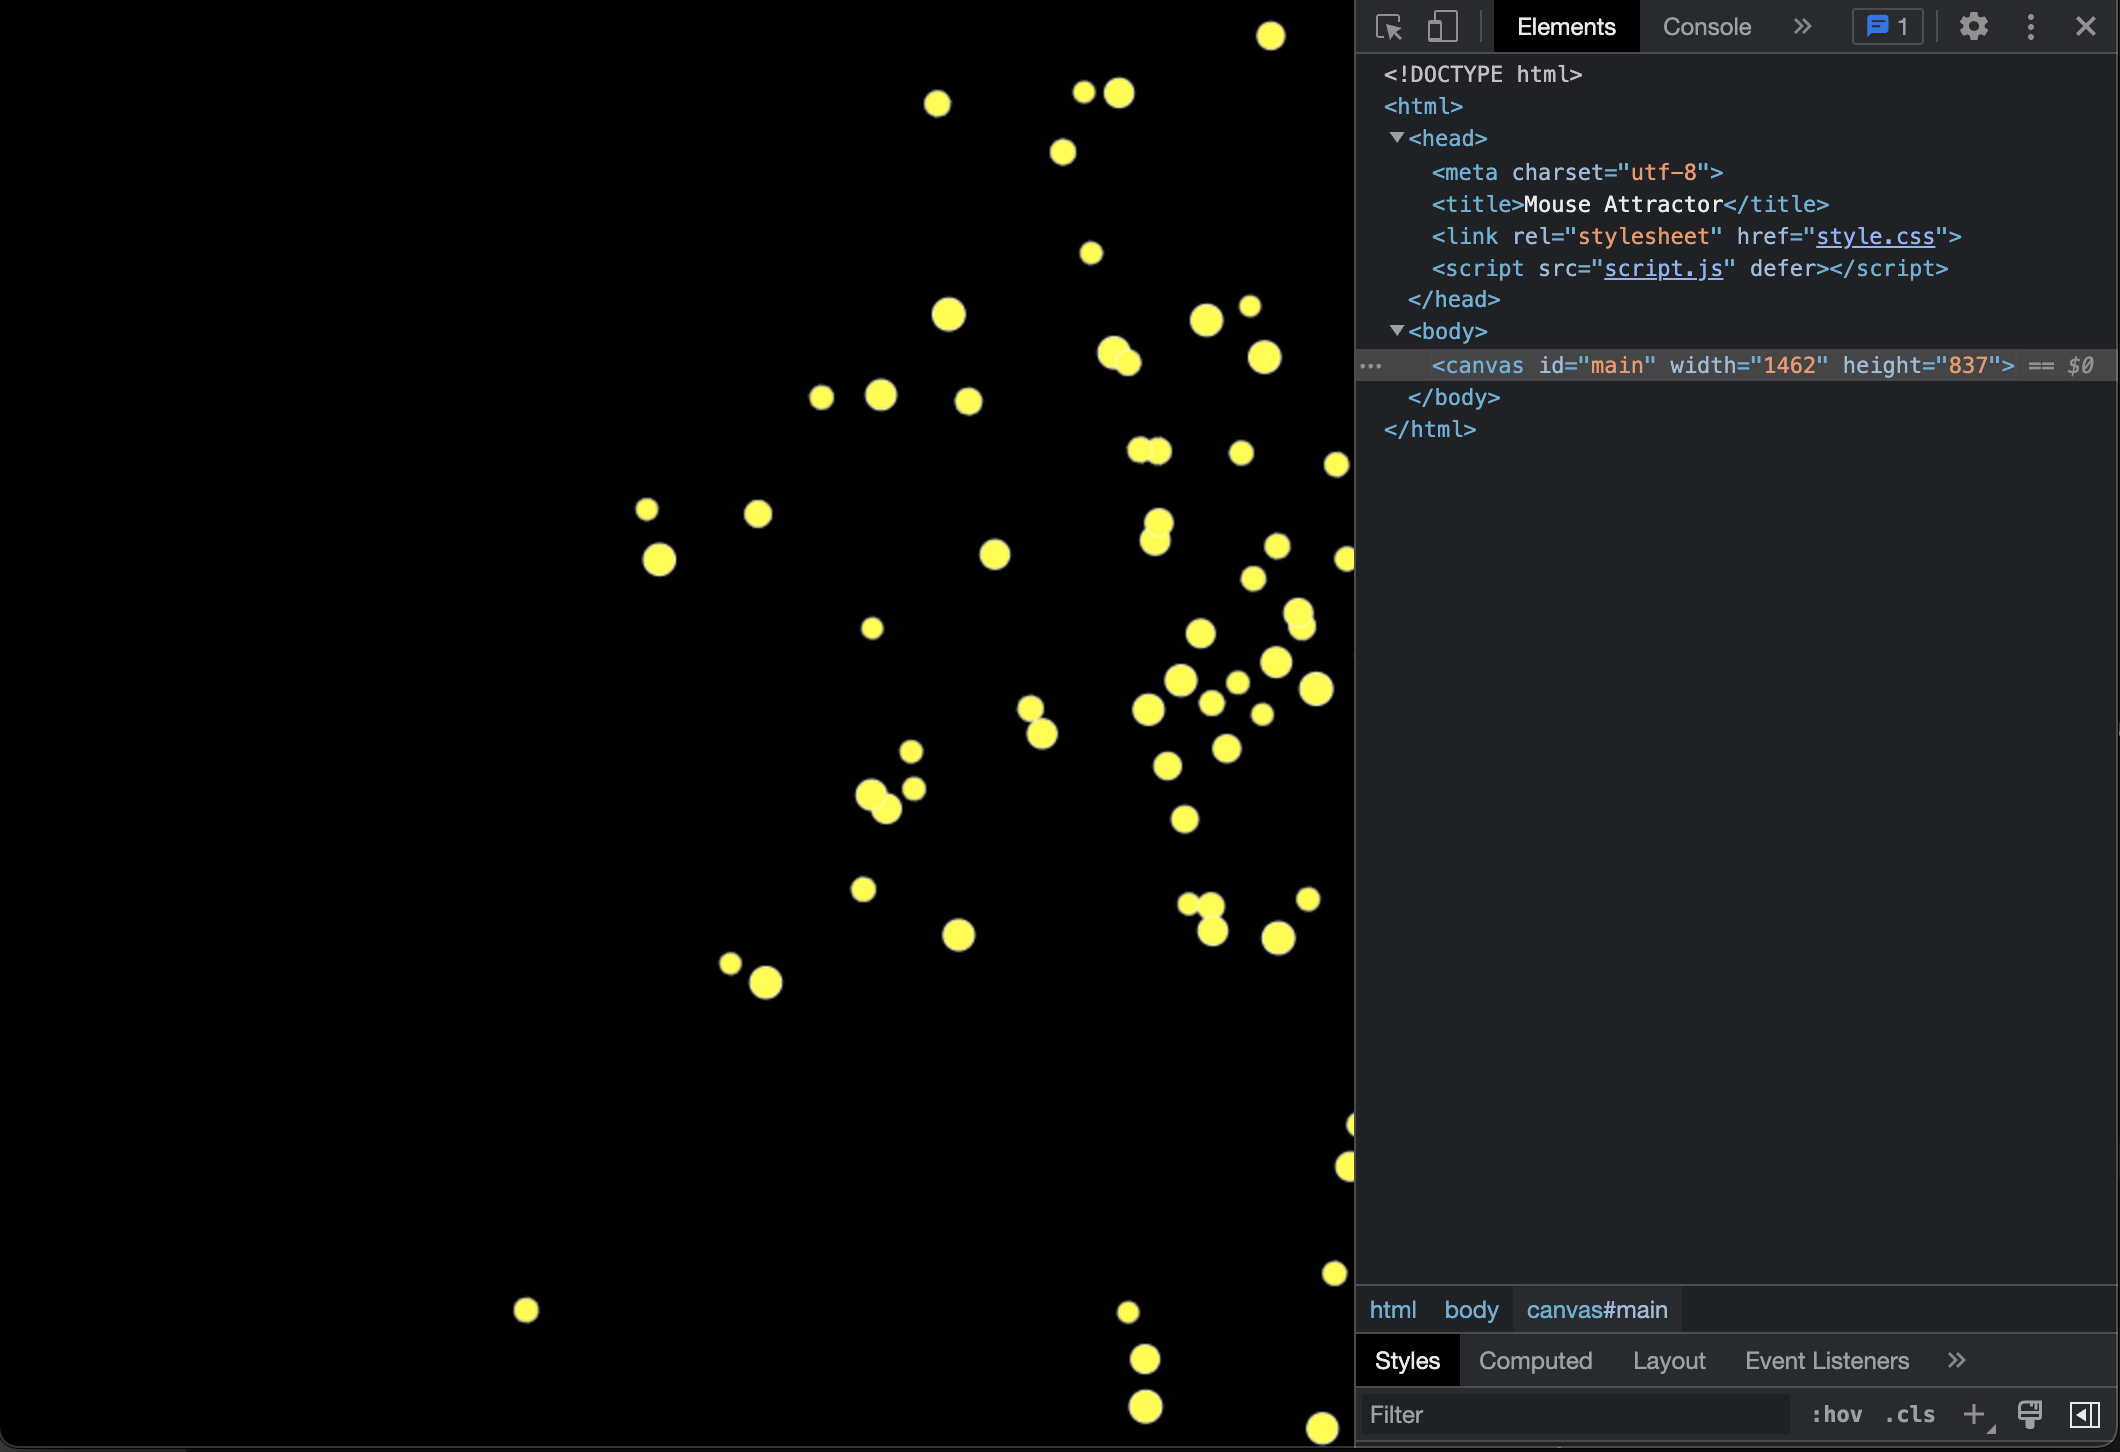
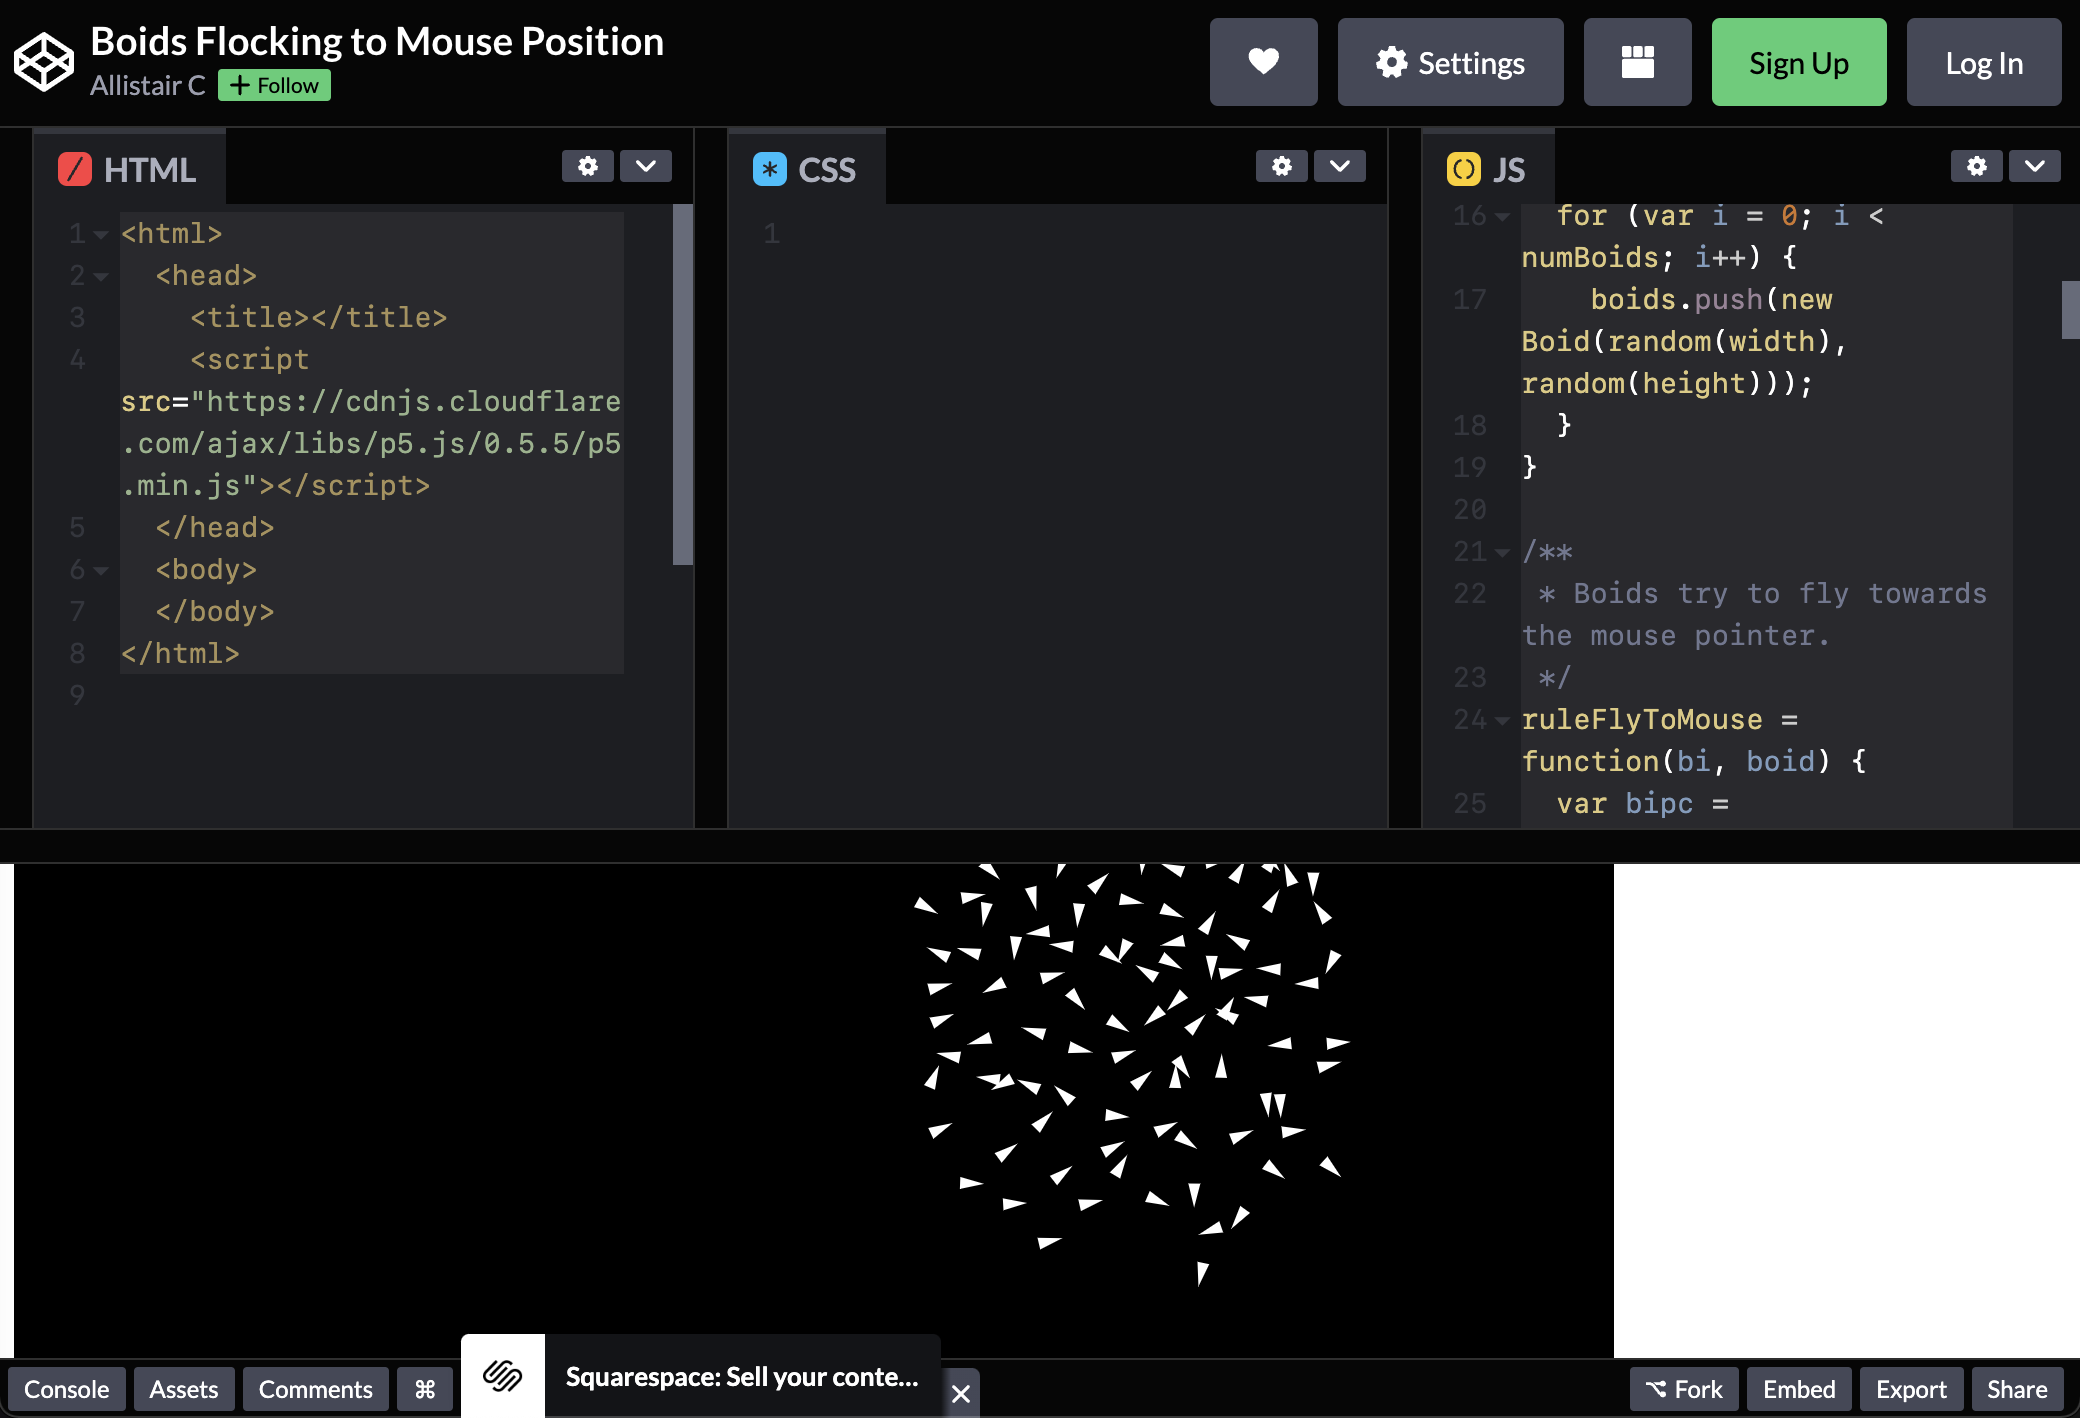
Week 7 » Round 8
Updated my project to P5js example

diff --git a/week-07/sketch.js b/week-07/sketch.js
@@ -1,164 +1,130 @@
-const WIDTH = window.innerWidth;
-const HEIGHT = window.innerHeight;
-const FRAMERATE = 60;
-const NUMBALLS = 111;
+/*
+ * Implementation of http://www.kfish.org/boids/pseudocode.html in P5.js
+ * with rule 1 modification to follow mouse.
+ *
+ * Triangle geometry taken from Dan Shiffman.
+ */
 
-let mouse = null;
+var numBoids = 100;
+var boids = [];
 
-window.addEventListener('load', () => {
-    // Init Canvas & Context
-    const canvas = document.getElementById('main');
-    const ctx = canvas.getContext('2d');
-
-    canvas.width = WIDTH;
-    canvas.height = HEIGHT;
-
-    // Init Balls
-    const balls = [];
-    for (let i = 0; i < NUMBALLS; i++) {
-        balls.push(new Ball(ctx, Math.randomRange(5, 8)));
-    }
-
-    // Update Mouse Vector
-    mouse = new Vector(0, 0);
-
-    const rect = canvas.getBoundingClientRect();
-    const root = document.documentElement;
-    canvas.addEventListener('mousemove', e => mouse.set(e.clientX - rect.left - root.scrollLeft, e.clientY - rect.top - root.scrollTop));
-
-    // Draw Loop
-    window.setInterval(() => draw(ctx, balls), 1000 / FRAMERATE);
-});
-
-function draw(ctx, Objects) {
-    ctx.fillStyle = 'black';
-    ctx.fillRect(0, 0, WIDTH, HEIGHT);
-
-    Objects.forEach(obj => {
-        obj.update();
-        obj.draw();
-    });
+/**
+ * Create the canvas and create boids randomly.
+ */
+function setup() {
+  createCanvas(800, 600);
+  for (var i = 0; i < numBoids; i++) {
+    boids.push(new Boid(random(width), random(height)));
+  }
 }
 
-class Ball {
-    constructor(ctx, radius) {
-        this.ctx = ctx;
-        this.radius = radius;
-        this.weight = radius;
-        this.position = Vector.getRandomVector(WIDTH, HEIGHT);
-        this.velocity = new Vector(0, 0);
-        this.acceleration = new Vector(0, 0);
+/**
+ * Boids try to fly towards the mouse pointer.
+ */
+ruleFlyToMouse = function(bi, boid) {
+  var bipc = createVector(mouseX, mouseY);
 
-        Ball.maxPosition = new Vector(WIDTH, HEIGHT);
-        Ball.maxMag = Ball.maxPosition.mag();
-    }
+  var v = p5.Vector.sub(bipc, boid.position);
+  v.div(100);
 
-    update() {
-        this._accelerateTowardsMouse();
-
-        this.velocity.add(this.acceleration);
-        this.velocity.limit(20);
-        if (Math.random() < 0.1) { // 10% probability of adding noise
-            this.velocity.add(new Vector(Math.randomRange(-5, 5), Math.randomRange(-5, 5)));
-        }
-
-        this.position.add(this.velocity);
-
-        this._boundaryCheck();
-    }
-
-    _accelerateTowardsMouse() {
-        let dir = Vector.subtract(mouse, this.position);
-        let closeness = (Ball.maxMag - dir.mag()) / Ball.maxMag;
-
-        dir.normalize();
-        dir.mult(closeness);
-
-        this.acceleration = dir;
-    }
-
-    _boundaryCheck() {
-        if (this.position.x < 0) {
-            this.velocity.x *= -1;
-            this.position.x = 0;
-        } else if (this.position.x > WIDTH) {
-            this.velocity.x *= -1;
-            this.position.x = WIDTH;
-        } else if (this.position.y < 0) {
-            this.velocity.y *= -1;
-            this.position.y = 0;
-        } else if (this.position.y > HEIGHT) {
-            this.velocity.y *= -1;
-            this.position.y = HEIGHT;
-        }
-    }
-
-    draw() {
-        this.ctx.beginPath();
-        this.ctx.arc(this.position.x, this.position.y, this.radius, 0, 2 * Math.PI);
-
-        this.ctx.fillStyle = 'yellow';
-        this.ctx.fill();
-
-        this.ctx.lineWidth = this.radius / 8;
-        this.ctx.strokeStyle = '#FFFFE0';
-        this.ctx.stroke();
-    }
+  return v;
 }
 
-class Vector {
-    constructor(x, y) {
-        this.x = x;
-        this.y = y;
-    }
+/**
+ * Boids try to keep a small distance away from other objects
+ * (including other boids).
+ */
+ruleFlyCloseToOthers = function(bi, boid) {
+  var c = createVector();
 
-    set(x, y) {
-        this.x = x;
-        this.y = y;
-    }
+  for (var i = 0; i < boids.length; i++) {
+    if (bi != i) {
+      var b = boids[i];
+      var a = p5.Vector.sub(b.position, boid.position);
 
-    add(v) {
-        this.x += v.x;
-        this.y += v.y;
+      if (a.mag() < boid.diameter) {
+        c.sub(a);
+      }
     }
+  }
 
-    subtract(v) {
-        this.x -= v.x;
-        this.y -= v.y;
-    }
-
-    mult(scalar) {
-        this.x *= scalar;
-        this.y *= scalar;
-    }
-
-    div(scalar) {
-        this.x /= scalar;
-        this.y /= scalar;
-    }
-
-    normalize() {
-        this.div(this.mag());
-    }
-
-    mag() {
-        return Math.sqrt(this.x * this.x + this.y * this.y);
-    }
-
-    limit(max) {
-        if (this.mag() > max) {
-            this.normalize();
-            this.mult(max);
-        }
-    }
-
-    static subtract(v1, v2) {
-        return new Vector(v1.x - v2.x, v1.y - v2.y);
-    }
-
-    static getRandomVector(xMax, yMax) {
-        return new Vector (Math.randomRange(0, xMax), Math.randomRange(0, yMax));
-    }
+  return c;
 }
 
-Math.__proto__.randomRange = (min, max) => (Math.random() * (max - min) + min);
+/**
+ * Boids try to match velocity with near boids.
+ */
+ruleFlyAtSimilarVelocityToOthers = function(bi, boid) {
+  var pv = createVector();
+
+  for (var i = 0; i < boids.length; i++) {
+    if (bi != i) {
+      pv.add(boids[i].velocity);
+    }
+  }
+
+  pv.div(boids.length - 1);
+
+  var v = p5.Vector.sub(pv, boid.velocity);
+  v.div(8);
+
+  return v;
+}
+
+/**
+ * Render the boids.
+ */
+function draw() {
+
+  background(0);
+  fill(255);
+  noStroke();
+
+  for (var i = 0; i < boids.length; i++) {
+    var b = boids[i];
+
+    b.draw();
+
+    var v1 = ruleFlyToMouse(i, b);
+    var v2 = ruleFlyCloseToOthers(i, b);
+    var v3 = ruleFlyAtSimilarVelocityToOthers(i, b);
+
+    b.velocity.add(v1);
+    b.velocity.add(v2);
+    b.velocity.add(v3);
+
+		b.position.add(b.velocity);
+  }
+}
+
+/**
+ * The Boid class.
+ */
+var Boid = function(x, y) {
+
+  this.diameter = 15;
+  this.position = createVector(x, y);
+  this.velocity = createVector(0);
+  this.r = 3;
+
+  this.draw = function() {
+
+    // Nice idea from Dan Shiffman to prevent over acceleration
+    this.velocity.limit(3);
+
+    // Draw triangle boid as tri pointed in direction of velocity
+    // Taken from Dan Shiffman's Nature of Code boid draw function
+    // https://github.com/shiffman/The-Nature-of-Code-Examples-p5.js/tree/master/chp06_agents/NOC_6_09_Flocking
+    var theta = this.velocity.heading() + radians(90);
+
+    push();
+    translate(this.position.x, this.position.y);
+    rotate(theta);
+    beginShape();
+    vertex(0, -this.r*2);
+    vertex(-this.r, this.r*2);
+    vertex(this.r, this.r*2);
+    endShape(CLOSE);
+    pop();
+  }
+}

diff --git a/week-07/index.html b/week-07/index.html
@@ -23,16 +23,12 @@
             </ul>            
         <div>
             <img src="images/image-01.png" height="250px">
-            <p>Step 1 was to find a demo that reflected a nature simulation. I found a demo where balls are attracted to your mouse cursor like a swarm of bees.</p>
+            <p>Step 1 was to find a demo that reflected a nature simulation. I found a demo where randomly sized triangle shapes are attracted to your mouse cursor like a flock of birds.</p>
         </div>
         <div>
-            <img src="images/image-02.jpg" height="250px">
-            <p>Step 2 was to find the source code to rebuild the demo on my own system. I modfied the code to reduce the number of balls and the dimension of the canvas to fit within my webpage more optimally.</p>
-        </div>
         <div id="sketch-frame">
-        <canvas id="main" width="400px" height="400px"></canvas>
         </div>
-        <p>Step 3 was to document my work on a html page and use CSS.</p>
+        <p>Step 2 was to document my work on a html page and use CSS.</p>
     </main>
 </body>
 </html>
